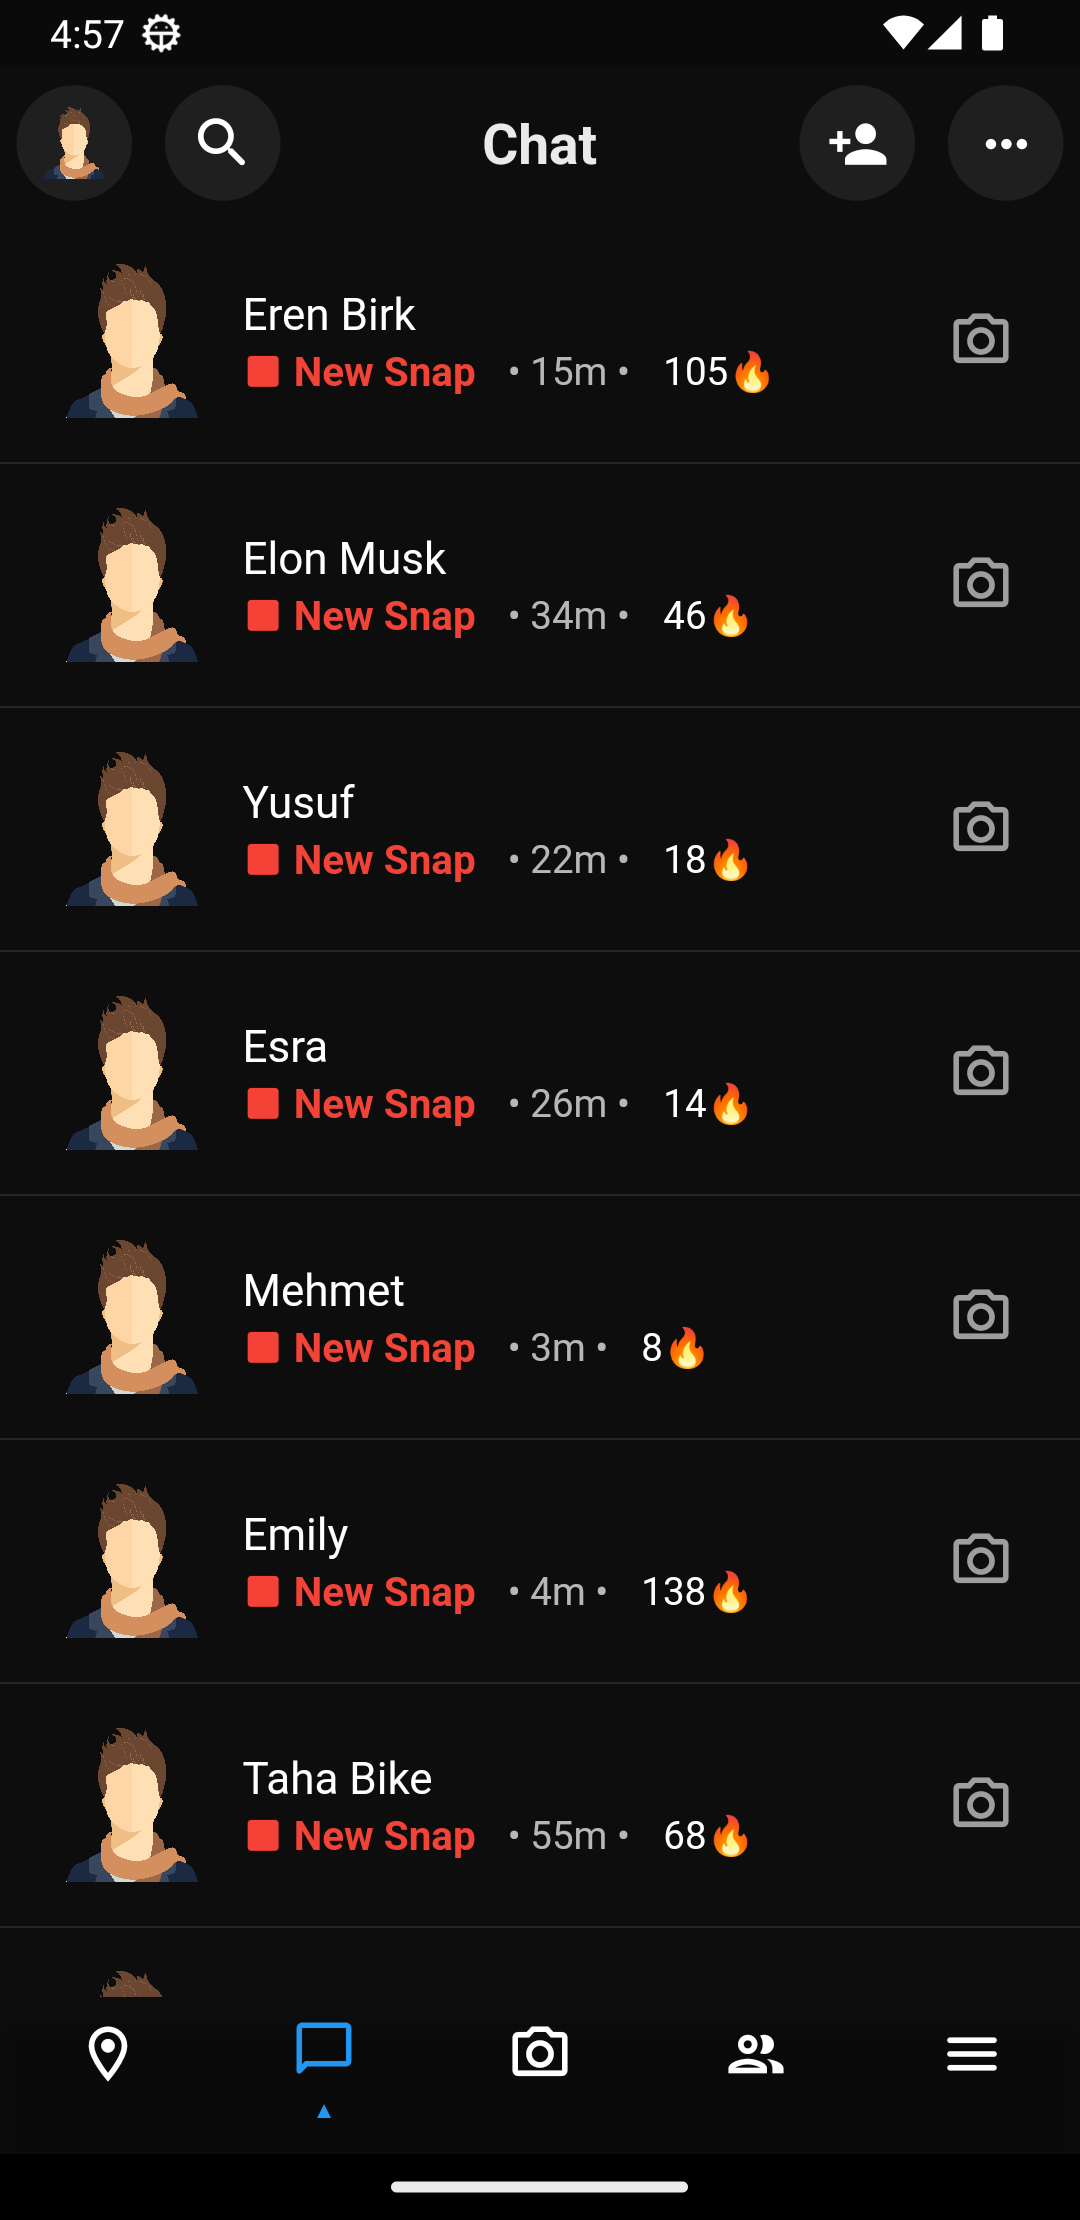
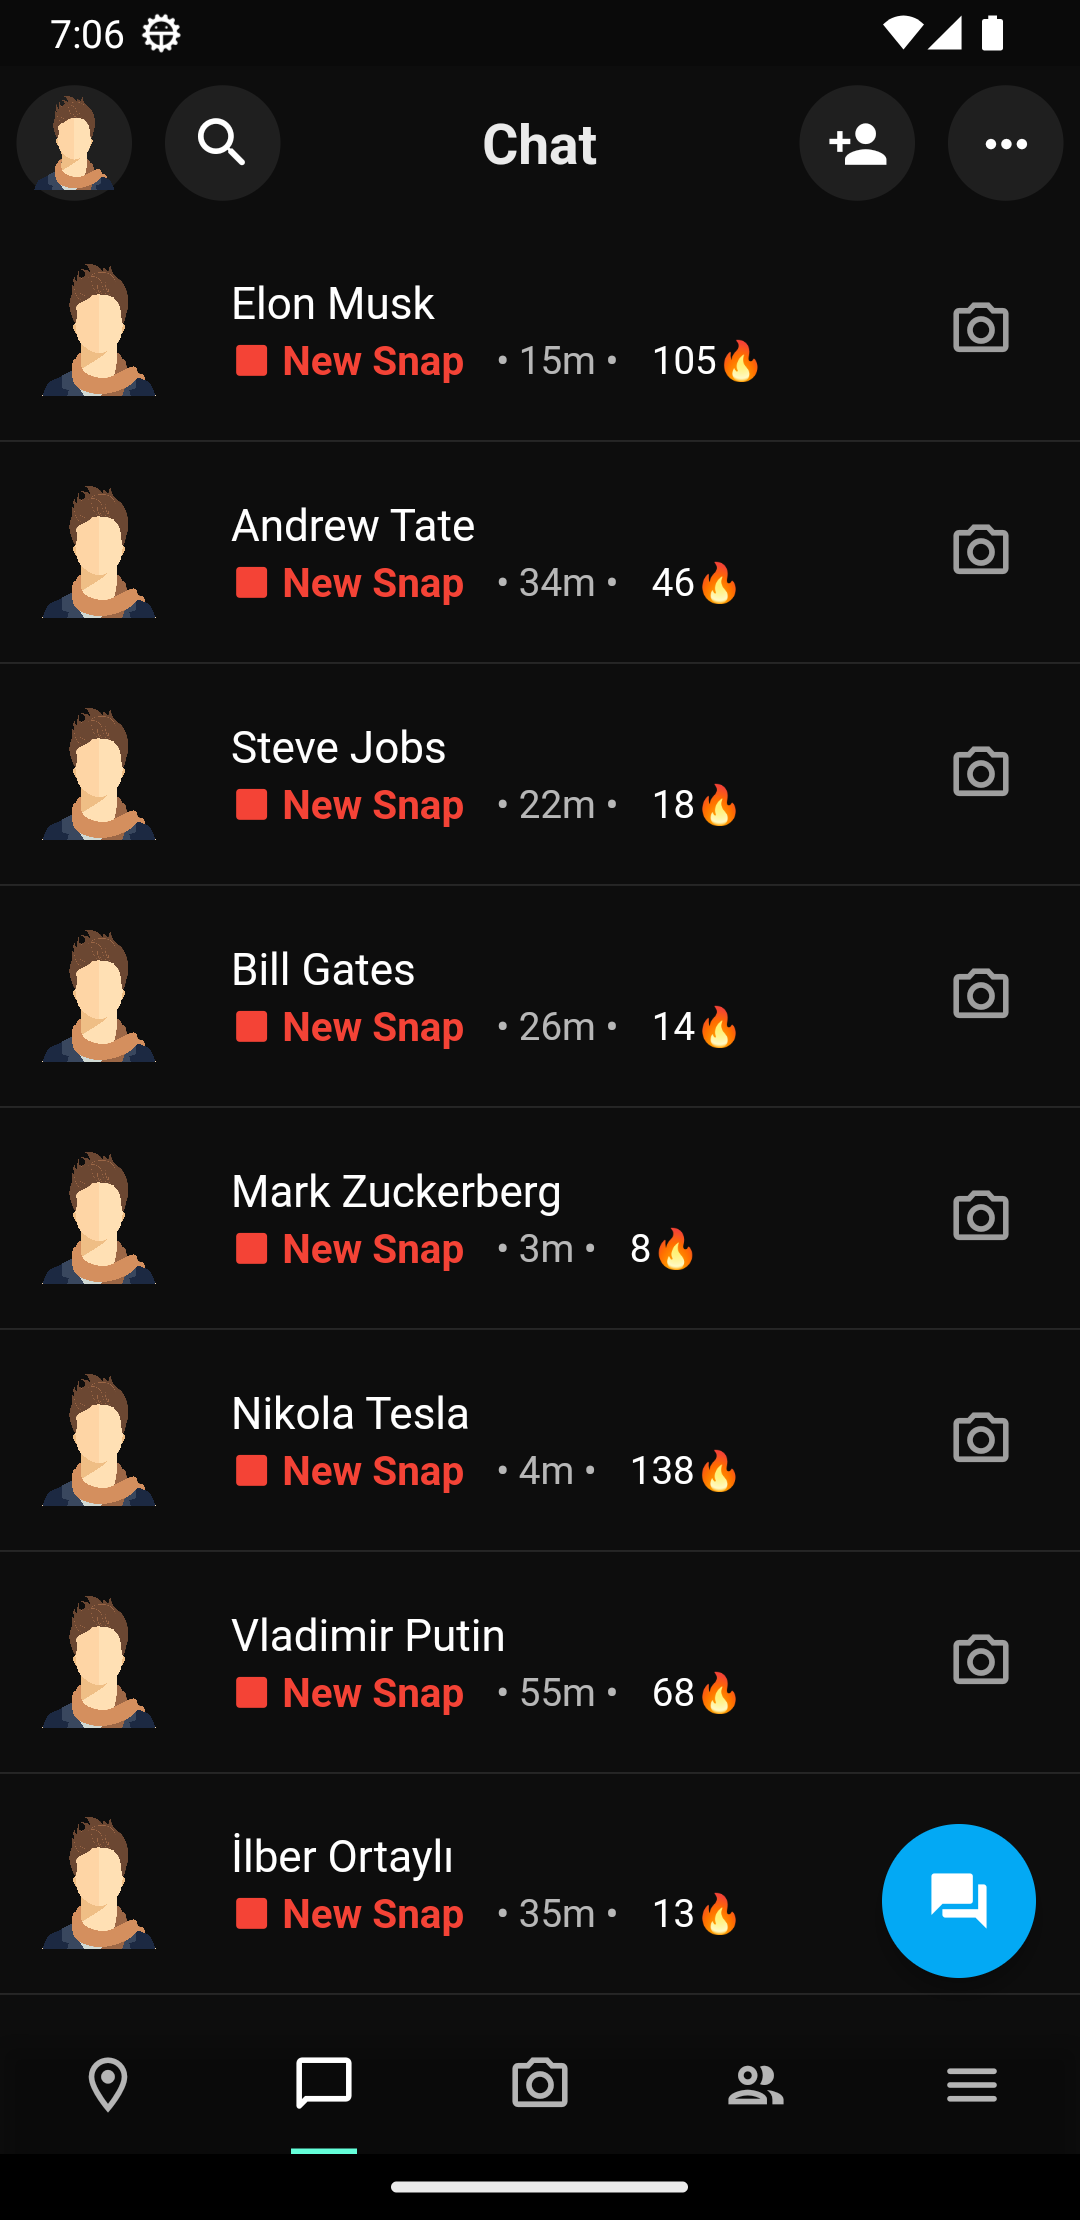
refactor codes

diff --git a/lib/product/Services/service.dart b/lib/product/Services/service.dart
@@ -4,30 +4,26 @@ import 'package:snapchat_clone/product/Models/user.dart';
 import '../../core/defaultPhotos.dart';
 
 List<Friend> friends = [
-  Friend(nickName: "Eren Birk", imagePath: DefaultPhotoPaths.defaultPp, lastSeenMinute: 15, stPoint: 105),
-  Friend(nickName: "Elon Musk", imagePath: DefaultPhotoPaths.defaultPp, lastSeenMinute: 34, stPoint: 46),
-  Friend(nickName: "Yusuf", imagePath: DefaultPhotoPaths.defaultPp, lastSeenMinute: 22, stPoint: 18),
-  Friend(nickName: "Esra", imagePath: DefaultPhotoPaths.defaultPp, lastSeenMinute: 26, stPoint: 14),
-  Friend(nickName: "Mehmet", imagePath: DefaultPhotoPaths.defaultPp, lastSeenMinute: 3, stPoint: 8),
-  Friend(nickName: "Emily", imagePath: DefaultPhotoPaths.defaultPp, lastSeenMinute: 4, stPoint: 138),
-  Friend(nickName: "Taha Bike", imagePath: DefaultPhotoPaths.defaultPp, lastSeenMinute: 55, stPoint: 68),
-  Friend(nickName: "Irmak", imagePath: DefaultPhotoPaths.defaultPp, lastSeenMinute: 35, stPoint: 13),
-  Friend(nickName: "Mehmet", imagePath: DefaultPhotoPaths.defaultPp, lastSeenMinute: 5, stPoint: 36),
-  Friend(nickName: "Şeyma", imagePath: DefaultPhotoPaths.defaultPp, lastSeenMinute: 5, stPoint: 36),
-  Friend(nickName: "Tarik", imagePath: DefaultPhotoPaths.defaultPp, lastSeenMinute: 5, stPoint: 36),
-  Friend(nickName: "Esra", imagePath: DefaultPhotoPaths.defaultPp, lastSeenMinute: 5, stPoint: 36),
-  Friend(nickName: "Melek", imagePath: DefaultPhotoPaths.defaultPp, lastSeenMinute: 5, stPoint: 36),
-  Friend(nickName: "Murat", imagePath: DefaultPhotoPaths.defaultPp, lastSeenMinute: 5, stPoint: 36),
-  Friend(nickName: "Ahmet", imagePath: DefaultPhotoPaths.defaultPp, lastSeenMinute: 5, stPoint: 36),
-  Friend(nickName: "Mehmet", imagePath: DefaultPhotoPaths.defaultPp, lastSeenMinute: 5, stPoint: 36),
-  Friend(nickName: "Şeyma", imagePath: DefaultPhotoPaths.defaultPp, lastSeenMinute: 5, stPoint: 36),
-  Friend(nickName: "Tarik", imagePath: DefaultPhotoPaths.defaultPp, lastSeenMinute: 5, stPoint: 36),
-  Friend(nickName: "Esra", imagePath: DefaultPhotoPaths.defaultPp, lastSeenMinute: 5, stPoint: 36),
-  Friend(nickName: "Melek", imagePath: DefaultPhotoPaths.defaultPp, lastSeenMinute: 5, stPoint: 36),
-  Friend(nickName: "Murat", imagePath: DefaultPhotoPaths.defaultPp, lastSeenMinute: 5, stPoint: 36),
+  Friend(nickName: "Elon Musk", imagePath: DefaultPhotoPaths.defaultPp, lastSeenMinute: 15, stPoint: 105),
+  Friend(nickName: "Andrew Tate", imagePath: DefaultPhotoPaths.defaultPp, lastSeenMinute: 34, stPoint: 46),
+  Friend(nickName: "Steve Jobs", imagePath: DefaultPhotoPaths.defaultPp, lastSeenMinute: 22, stPoint: 18),
+  Friend(nickName: "Bill Gates", imagePath: DefaultPhotoPaths.defaultPp, lastSeenMinute: 26, stPoint: 14),
+  Friend(nickName: "Mark Zuckerberg", imagePath: DefaultPhotoPaths.defaultPp, lastSeenMinute: 3, stPoint: 8),
+  Friend(nickName: "Nikola Tesla", imagePath: DefaultPhotoPaths.defaultPp, lastSeenMinute: 4, stPoint: 138),
+  Friend(nickName: "Vladimir Putin", imagePath: DefaultPhotoPaths.defaultPp, lastSeenMinute: 55, stPoint: 68),
+  Friend(nickName: "İlber Ortaylı", imagePath: DefaultPhotoPaths.defaultPp, lastSeenMinute: 35, stPoint: 13),
+  Friend(nickName: "Elon Musk", imagePath: DefaultPhotoPaths.defaultPp, lastSeenMinute: 15, stPoint: 105),
+  Friend(nickName: "Andrew Tate", imagePath: DefaultPhotoPaths.defaultPp, lastSeenMinute: 34, stPoint: 46),
+  Friend(nickName: "Steve Jobs", imagePath: DefaultPhotoPaths.defaultPp, lastSeenMinute: 22, stPoint: 18),
+  Friend(nickName: "Bill Gates", imagePath: DefaultPhotoPaths.defaultPp, lastSeenMinute: 26, stPoint: 14),
+  Friend(nickName: "Mark Zuckerberg", imagePath: DefaultPhotoPaths.defaultPp, lastSeenMinute: 3, stPoint: 8),
+  Friend(nickName: "Nikola Tesla", imagePath: DefaultPhotoPaths.defaultPp, lastSeenMinute: 4, stPoint: 138),
+  Friend(nickName: "Vladimir Putin", imagePath: DefaultPhotoPaths.defaultPp, lastSeenMinute: 55, stPoint: 68),
+  Friend(nickName: "İlber Ortaylı", imagePath: DefaultPhotoPaths.defaultPp, lastSeenMinute: 35, stPoint: 13),
+  
 ];
 
-User currentUser = User(nickName: "erhan", imagePath: DefaultPhotoPaths.defaultPp, lastSeenMinute: 6);
+User currentUser = User(nickName: "Erhan", imagePath: DefaultPhotoPaths.defaultPp, lastSeenMinute: 6);
 
 
 class UserOperations { 

diff --git a/lib/views/SnapchatClone.dart b/lib/views/SnapchatClone.dart
@@ -1,15 +1,19 @@
-
 import 'package:flutter/material.dart';
-import 'package:snapchat_clone/product/ProjectConsts/BottomNavBarItems.dart';
+import 'package:snapchat_clone/product/ProjectConsts/SectionEnums.dart';
 import 'package:snapchat_clone/product/Services/service.dart';
-import 'package:snapchat_clone/views/ChatView.dart';
+import 'package:snapchat_clone/product/Widgets/BottomNavBar.dart';
+import 'package:snapchat_clone/views/CameraView.dart';
+import 'package:snapchat_clone/views/DiscoverView.dart';
+import 'package:snapchat_clone/views/LocationView.dart';
+import 'package:snapchat_clone/views/StoriesView.dart';
 
 import '../product/Models/user.dart';
-import '../product/ProjectConsts/constTexts.dart';
-import '../product/Widgets/BottomNavBar.dart';
+import '../product/ProjectConsts/BottomAppBarItems.dart';
 import '../product/Widgets/PpButton.dart';
 import '../product/Widgets/SearchButton.dart';
 import '../product/Widgets/TabBarTextButton.dart';
+import 'ChatListView.dart';
+
 
 class SnapChatClone extends StatefulWidget {
   const SnapChatClone({Key? key}) : super(key: key);
@@ -18,36 +22,52 @@ class SnapChatClone extends StatefulWidget {
   State<SnapChatClone> createState() => _SnapChatCloneState();
 }
 
-class _SnapChatCloneState extends State<SnapChatClone> {
+class _SnapChatCloneState extends State<SnapChatClone> with TickerProviderStateMixin{
 
-  int index = 1;
+  int index = 2;
   late User currentUser;
+  late final TabController _tabController;
 
   @override
   void initState() {
     // TODO: implement initState
     super.initState();
+    _tabController = TabController(length: BottomAppBarItems.tabs.length, vsync: this, initialIndex: index);
     currentUser = UserOperations.getCurrentUser();
   }
 
-  void deneme(int deneme){
-    setState(() {
-      index = deneme;
-    });
+  @protected set setTabController(int index){
+    _tabController.animateTo(index);
   }
 
   @override
   Widget build(BuildContext context) {
-    return Scaffold(
-      appBar: chatViewAppBar(currentUser, ConstTexts.chat),
-      bottomNavigationBar: BottomNavBar(index: index, onPressed: deneme),
-      body: const ChatView()
-    );
+
+    _tabController.addListener(() {
+      setState(() {
+        index = _tabController.index;
+      });
+    },);
+
+    return DefaultTabController(length: 5, child: Scaffold(
+      appBar: chatViewAppBar(currentUser),
+      bottomNavigationBar: BottomNavBar(index: index, tabController: _tabController),
+      body: TabBarView(
+        controller: _tabController,
+        children: const [   
+        LocationView(),
+        ChatListView(),
+        CameraView(),
+        StoriesView(),
+        DiscoverView(),
+
+      ],),
+    ));
   }
 
-  AppBar chatViewAppBar(User user, String title) {
+  AppBar chatViewAppBar(User user) {
     return AppBar(
-      title: Text(BottomNavBarItems.bottomNavigationBarItems[index].label.toString()),
+      title: Text(Sections.values.elementAt(index).name),
       leadingWidth: 150,
       leading: Row(
         crossAxisAlignment: CrossAxisAlignment.center,

diff --git a/lib/views/ChatListView.dart b/lib/views/ChatListView.dart
@@ -1,21 +1,23 @@
 import 'package:flutter/material.dart';
 import 'package:snapchat_clone/product/ProjectConsts/ConstEdgeInsets.dart';
 import 'package:snapchat_clone/product/ProjectConsts/Styles.dart';
+import 'package:snapchat_clone/product/Services/navigation.dart';
 import 'package:snapchat_clone/product/Services/service.dart';
 import 'package:snapchat_clone/product/Models/user.dart';
 import 'package:snapchat_clone/product/Widgets/CameraButton.dart';
+import 'package:snapchat_clone/views/MessageView.dart';
 import '../product/Models/friend.dart';
 import '../product/Widgets/PpButton.dart';
 
 
-class ChatView extends StatefulWidget {
-  const ChatView({Key? key}) : super(key: key);
+class ChatListView extends StatefulWidget {
+  const ChatListView({Key? key}) : super(key: key);
 
   @override
-  State<ChatView> createState() => _ChatViewState();
+  State<ChatListView> createState() => _ChatListViewState();
 }
 
-class _ChatViewState extends State<ChatView> {
+class _ChatListViewState extends State<ChatListView> {
   late List<Friend> firends;
 
   @override
@@ -52,7 +54,7 @@ class _Space extends StatelessWidget {
   }
 }
 
-class _UserListItem extends StatelessWidget {
+class _UserListItem extends StatelessWidget with NavigatorManager{
   const _UserListItem({
     Key? key,
     required this.user,
@@ -63,12 +65,15 @@ class _UserListItem extends StatelessWidget {
   @override
   Widget build(BuildContext context) {
     return TextButton(
-      onPressed: () {},
+      onPressed: () {
+        navigateToWidget(context, MessageView(user: user));
+      },
       child: ListTile(
           leading: PpButton(user: user),
           title: Text(user.nickName),
           subtitle: _UserListTileSubtitle(user: user),
-          trailing: const CameraButton()),
+          trailing: const CameraButton()
+        ),
     );
   }
 }

diff --git a/lib/product/Widgets/BottomNavBar.dart b/lib/product/Widgets/BottomNavBar.dart
@@ -1,11 +1,11 @@
 import 'package:flutter/material.dart';
-import 'package:snapchat_clone/product/ProjectConsts/BottomNavBarItems.dart';
+import 'package:snapchat_clone/product/ProjectConsts/BottomAppBarItems.dart';
 
 class BottomNavBar extends StatefulWidget {
-  const BottomNavBar({Key? key, required this.index,required this.onPressed}) : super(key: key);
+  const BottomNavBar({Key? key, required this.index, required this.tabController,}) : super(key: key);
 
   final int index;
-  final ValueSetter<int> onPressed;
+  final TabController tabController;
 
   @override
   State<BottomNavBar> createState() => _BottomNavBarState();
@@ -14,11 +14,12 @@ class BottomNavBar extends StatefulWidget {
 class _BottomNavBarState extends State<BottomNavBar> {
 
   late int index;
+  late final TabController _tabController;
 
   @override
   void initState() {
     // TODO: implement initState
-    super.initState();
+    super.initState(); 
     index = widget.index;
   }
   
@@ -37,11 +38,13 @@ class _BottomNavBarState extends State<BottomNavBar> {
 
   @override
   Widget build(BuildContext context) {
-    return BottomNavigationBar(
-        onTap: widget.onPressed,
-        currentIndex: index,
-        backgroundColor: Colors.transparent,
-        items: BottomNavBarItems.bottomNavigationBarItems
+    return BottomAppBar(
+      color: Colors.transparent,
+      child: TabBar(
+        controller: widget.tabController,
+        indicatorSize: TabBarIndicatorSize.label,
+        tabs: BottomAppBarItems.tabs
+      ),
       );
   }
 }

diff --git a/lib/product/Widgets/PpButton.dart b/lib/product/Widgets/PpButton.dart
@@ -1,8 +1,9 @@
 import 'package:flutter/material.dart';
+import 'package:snapchat_clone/product/Services/navigation.dart';
 import '../../Views/ProfileView.dart';
 import '../Models/user.dart';
 
-class PpButton extends StatelessWidget {
+class PpButton extends StatelessWidget with NavigatorManager{
   const PpButton({
     Key? key, required this.user, 
   }) : super(key: key);
@@ -13,19 +14,11 @@ class PpButton extends StatelessWidget {
   Widget build(BuildContext context) {
     return TextButton(
       onPressed: (){
-        navigate(context, ProfileView(user: user,));
+        navigateToWidget(context, ProfileView(user: user,));
       }, //Burdan profil page gitmesini sağla
       style: ButtonStyle(padding: MaterialStateProperty.all(
       const EdgeInsets.all(4)),),
       child: Image.network(user.imagePath, scale: 10,)
     );
-  }
-
-  void navigate(context, Widget widget){
-    Navigator.of(context).push(
-    MaterialPageRoute(
-      builder: (context) => widget
-    ),
-  );
   }
 }

diff --git a/lib/views/MessageView.dart b/lib/views/MessageView.dart
@@ -2,8 +2,8 @@ import 'package:flutter/material.dart';
 
 import '../product/Models/user.dart';
 
-class ProfileView extends StatelessWidget {
-  const ProfileView({Key? key, required this.user}) : super(key: key);
+class MessageView extends StatelessWidget {
+  const MessageView({Key? key, required this.user}) : super(key: key);
 
   final User user;
 
@@ -11,10 +11,10 @@ class ProfileView extends StatelessWidget {
   Widget build(BuildContext context) {
     return Scaffold(
       appBar: AppBar(
-        title: const Text('Profile View'),
+        title: Text(user.nickName),
       ),
       body: Center(
-        child: Text("${user.nickName} Profile"),
+        child: Text("${user.nickName} Message Page"),
       ),
     );
   }

diff --git a/lib/product/Widgets/CameraButton.dart b/lib/product/Widgets/CameraButton.dart
@@ -1,11 +1,18 @@
 import 'package:flutter/material.dart';
+import 'package:snapchat_clone/views/CameraView.dart';
 
-class CameraButton extends StatelessWidget {
+import '../Services/navigation.dart';
+
+class CameraButton extends StatelessWidget with NavigatorManager{
   const CameraButton({Key? key}) : super(key: key);
+
   @override
   Widget build(BuildContext context) {
     return TextButton(
-          onPressed: (){},
+          onPressed: (){
+            navigateToWidget(context, const CameraView());
+            
+          },
           child: const Icon(
             Icons.camera_alt_outlined,
             color: Colors.white60,

diff --git a/lib/product/ProjectConsts/BottomAppBarItems.dart b/lib/product/ProjectConsts/BottomAppBarItems.dart
@@ -1,0 +1,14 @@
+import 'package:flutter/material.dart';
+
+class BottomAppBarItems {
+  static List<Tab> tabs = [
+    const Tab(icon: Icon(Icons.location_on_outlined)),
+    const Tab(icon: Icon(Icons.chat_bubble_outline_rounded)),
+    const Tab(icon: Icon(Icons.camera_alt_outlined)),
+    const Tab(icon: Icon(Icons.group_outlined)),
+    const Tab(icon: Icon(Icons.menu_rounded)),
+  ];
+
+  static List<String> tabLabels = ["Location", "Chat", "Camera", "Stories", "Discover" ];
+}
+

diff --git a/lib/main.dart b/lib/main.dart
@@ -17,6 +17,7 @@ class MyApp extends StatelessWidget {
         title: 'Flutter Demo',
         debugShowCheckedModeBanner: false,
         theme: ThemeData.dark().copyWith(
+          listTileTheme: const ListTileThemeData(contentPadding: EdgeInsets.all(3)),
             floatingActionButtonTheme: const FloatingActionButtonThemeData(backgroundColor: Colors.lightBlue),
             iconTheme: const IconThemeData(color: Colors.white),
             textButtonTheme: TextButtonThemeData(

diff --git a/lib/views/DiscoverView.dart b/lib/views/DiscoverView.dart
@@ -1,0 +1,14 @@
+
+import 'package:flutter/material.dart';
+
+class DiscoverView extends StatelessWidget {
+  const DiscoverView({Key? key}) : super(key: key);
+  @override
+  Widget build(BuildContext context) {
+    return const Scaffold(
+      body: Center(
+        child: Text('DiscoverView'),
+      ),
+    );
+  }
+}

diff --git a/lib/product/Services/navigation.dart b/lib/product/Services/navigation.dart
@@ -1,0 +1,13 @@
+import 'package:flutter/material.dart';
+
+mixin NavigatorManager{
+  void navigateToWidget(BuildContext context, Widget widget){
+    Navigator.of(context).push(
+      MaterialPageRoute(builder: (context) {
+        return widget;
+      },
+      settings: const RouteSettings()
+      ),
+    );
+  }
+}

diff --git a/lib/views/LocationView.dart b/lib/views/LocationView.dart
@@ -1,0 +1,13 @@
+import 'package:flutter/material.dart';
+
+class LocationView extends StatelessWidget {
+  const LocationView({Key? key}) : super(key: key);
+  @override
+  Widget build(BuildContext context) {
+    return const Scaffold(
+      body: Center(
+        child: Text('LocationView'),
+      ),
+    );
+  }
+}
